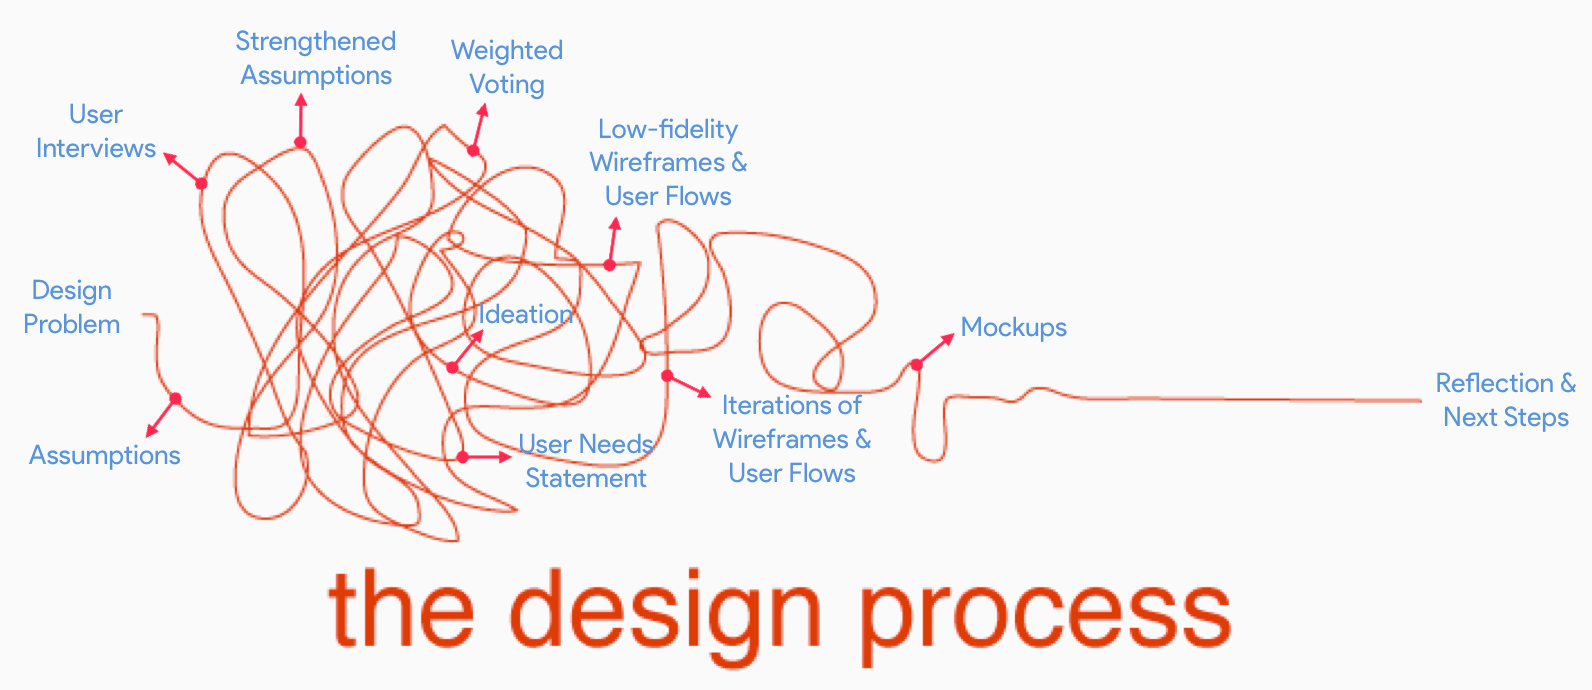
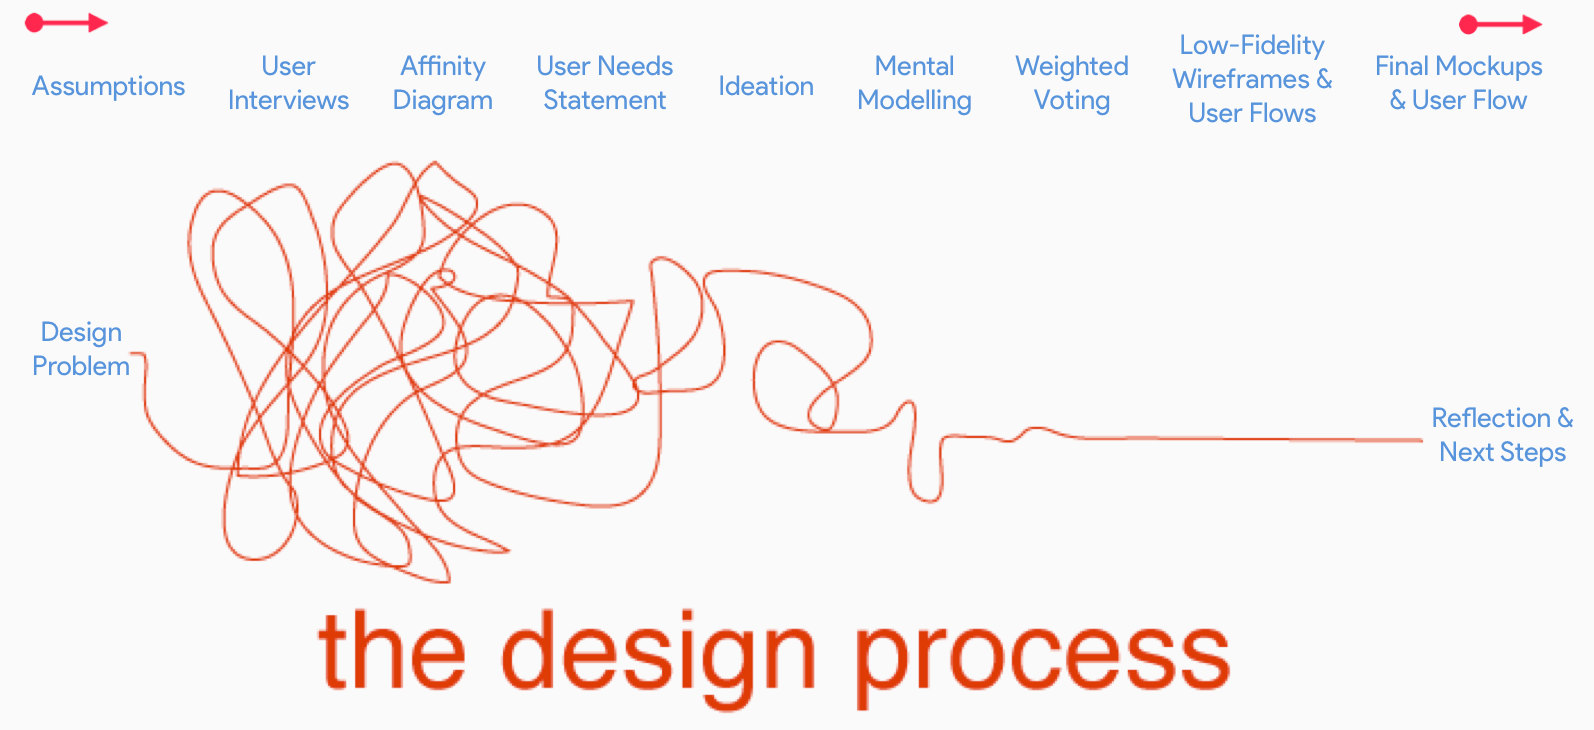
pass

diff --git a/googledesign.html b/googledesign.html
@@ -155,7 +155,7 @@
                   <h2>Laying out the process</h2>
                   <p>With one week to produce a high-level flow and supporting wireframes, I certainly want to make sure that the project's design process is as user-centered as possible.</p>
                   <img src="images/GOOGLEDESIGNimages/process.png" alt="">
-                  <p>(I almost told myself to map out a high-level overview of the process through which this project was executed. It was going to be a simple, straight, and a linear depiction of the different steps and methods I applied. But then I suddenly realized that the reality of all design processes are much wilder than the one I was going to draw. It's fluid, dynamic, has a lot of back-and-forth's, and can get messy sometimes. Even for a small-scale project like this one, while I did have an internalized process in mind, it never was never going to follow a solid step-by-step path. So here it is, my design process for Re.V, exactly like how it's illustrated in the picture above.)</p>
+                  <p>(I almost told myself to map out a high-level overview of the process through which this project was executed. It was going to be a simple, straight, and a linear depiction of the different steps and methods I applied. But then I suddenly realized that the reality of all design processes are much wilder than the one I was going to draw. It's fluid, dynamic, has a lot of back-and-forth's, and can get messy sometimes. Even for a small-scale project like this one, while I did have an internalized process in mind, it never was never going to follow a solid step-by-step path. So here it is, my design process for Re.V, exactly like how it's illustrated in the picture above. For the sake of clarity, though, I've included the methods utilized in this project at the top of in a traditional linear fashion.)</p>
                   
                   <h3>Starting out with user interviews</h3>
                   <p>I didn't want to design with unsupported assumptions, which I had a lot at the beginning of the exercise. I wanted to at least strengthen some of these assumptions by communicating with real users. To do this, I recruited three acquaintaines who also identify themselves as prominent foodies and conducted a one-hour interview with each. Essentially, my goal was to take a deeper step into these users' context - their needs, goals, frustrations, and challenges - around the task of reviewing a restaurant server. A better understanding of this element would have helped me envision a clearer design opportunity for this challenge.</p>
@@ -164,8 +164,13 @@
                   <p>Amongst my interviewees' many remarks, here are some of the more noteworthy ones:</p>
                   <img src="images/GOOGLEDESIGNimages/user_responses.png" alt="">
 
+                  <h3>Affinity Diagramming</h3>
+                  <p>To better organize the data collected from my interviews, and concurrently to give myself a chance to step back and look at the big picture, I conducted an affinity diagram exercise. Affinity diagrams are great because they allow you to rigorously dig through your qualitative data and compartmentalize them into similar encompassing themes or categories that will better tell the underlying story.</p>
+                  <img src="images/GOOGLEDESIGNimages/affinity.jpg" alt="">
+                  <p class="italic">Trying to be resourceful and make use of the hallway wall because I couldn't get access to any conference rooms with whiteboards (it was midterm week...).</p>
+
                   <h3>Strengthening the assumptions with key insights</h3>
-                  <p>The interviews helped me consolidate my previous assumptions into a set of key insights that, in a way, were still assumptions (given the small scale of the user research) but were definitely more sound. Ultimately, these insights/assumptions are as follows:</p>
+                  <p>The interviews and affinity diagram helped me consolidate my previous assumptions into a set of key insights that, in a way, were still assumptions (given the small scale of the user research) but were definitely more sound. Effectively, they emerged as the primary themes uncovered during the affinity diagram exercise, and are as follows:</p>
                   <ul>
                     <li>Diners mostly only care about and pay attention to the wait staff's service quality at fine-dining restaurants.</li>
                     <li>Diners prefer to leave a review immediately and quickly during or after their dining experience. Generally, they want to deliver these messages when the experience is still fresh in their minds.</li>
@@ -189,6 +194,11 @@
                   <img src="images/GOOGLEDESIGNimages/sketchingsessionsfinal.jpg" alt="">
                   &nbsp;
 
+                  <h3>A side note on mental modelling</h3>
+                  <p>Throughout the ideation stage, one exercise which I relied on a lot to drive me creative thinking is mental modelling. Typically in the real-world scenario, I like to collaborate with my whole team on mapping out users' mental models, essentially asking ourselves what kind of questions users could potentially have at each stage in their workflow, and what would a desired reaction be like. Based on these questions and desired reactions, we would accordingly brainstorm around different ideas that may fit into such scenarios. For the small scale of this project, I mainly created these mental models in my mind as I ideated through my sketches.</p>
+                  <img src="images/GOOGLEDESIGNimages/mental.png" alt="">
+                  &nbsp;
+
                   <h3>Decision-making with Weighted-Voting</h3>
                   <p>One of the key tenets of Google Ventures' Design Sprint model is that you have to be able to make quick decisions without falling into the trap of "design by committee". Given the lack of time, how can we ensure that the best ideas are agreed upon by a group of team members and yet the final choices uphold a unifying vision?</p>
                   <p>The solution is offered through "weighted-voting". The way it works is that each team member would be given a set of small blue round stickers, and with all the sketches stuck on the wall, they would place a sticker next to a design component or feature which they like. As all the blue stickers are put next to their respective sketches, the team leaders would then be given a few big red round stickers and asked to put them next to the overall flow or idea that they would like to move forward with. Essentially, I wanted to apply this weighted-voting method to this project, albeit at a much smaller scale. This meant that as a two-members team, we had to act as both individual contributors as well as leaders.</p>
@@ -205,6 +215,9 @@
                   <p>As the user flows were gradually finalizing, so too were the designs beginning to formalize. From the earlier basic sketches, I made multiple iterations of refinement and produced a set of low-fidelity wireframes.</p>
                   <img src="images/GOOGLEDESIGNimages/wireframe.jpg" alt="">
                   &nbsp;
+
+                  <h3>Engaging users in the design process</h3>
+                  <p>I tried to solicit as much feedback from potential users as possible by sharing with them multiple versions of my low-fidelity wireframes. I didn't have time recruit for participants who would best fit my user criteria, but I did worked my best to find the ones who at least have gone fine-dining before. My goal was simply to engage users in the design process and have their inputs be carefully considered. Doing this certainly helped me reconsider some of my design choices, as well as opend up new paths that I didn't think of earlier.</p>
 
                   <h3>Coming up with the final proposed solution</h3>
                   <p>A few more iterations and I was able to transform my low-fidelity wireframes into mockups that came with a higher fidelity. This entails the incorporation of a simple color pallette, typography, grid structure, with a hint of branding. I also paid careful attention to the design of various components such as buttons, forms, search and navigation bar etc. to ensure that they effectively contributed to the overal usability of the system, as well as its clean look and feel.</p>
@@ -226,7 +239,7 @@
                   </ul>
 
                   <h2>The final mockups</h2>
-                  <p>And alas! Here are the final proposed mockups for Re.V.</p>
+                  <p>And alas! Here are the final proposed mockups for Re.V. To better illustrate the app's key design decisions and their logic, I've laid out the main interactions that together could define a basic workflow.</p>
 
                   <h3>LOG IN</h3>
                   &nbsp;
